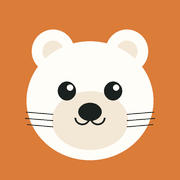
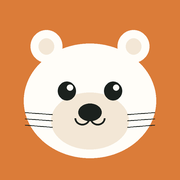
Cierra el acceso: sesion iniciada y lista blanca de correos
La app va a vivir en la web, donde la anon key viaja dentro del JavaScript
y cualquiera puede leerla. Las politicas pasan a exigir sesion, y ademas
que el correo este en una lista blanca guardada en configuracion: asi la
proteccion no depende de que el registro publico este desactivado en el
panel.

Las Edge Functions usan el service role por dentro, asi que RLS no las
frena; se les agrega una guardia que rechaza a quien llega solo con la
anon key.

En el cliente, sesion de Supabase Auth guardada en el dispositivo, con
refresco automatico y tolerancia a la falta de red: sin senal se sigue
usando el token que habia en vez de cerrar la sesion.

Tambien: el boton flotante ya respeta [hidden] y la nutria tiene orejas
mas pequenas, que parecia un oso.

Claude-Session: https://claude.ai/code/session_01DqTctDQLw3MT4SggFkwgfm

diff --git a/js/app.js b/js/app.js
@@ -350,6 +350,31 @@ function vTareas() {
   </div>`;
 }
 
+function vEntrar(error = '') {
+  return `
+  <div class="portada deslizar-entrada">
+    <div class="marca-portada">${nutria(76, 'currentColor')}</div>
+    <h1>La Nutria App</h1>
+    <p>Los gastos, la lista de compras y las tareas de la casa, en un solo lugar.</p>
+    <form data-form="entrar">
+      <input class="entrada" name="email" type="email" inputmode="email"
+             autocomplete="username" placeholder="Correo de la casa" required>
+      <input class="entrada" name="password" type="password"
+             autocomplete="current-password" placeholder="Contraseña" required>
+      <button class="btn acento" type="submit">Entrar</button>
+      ${error ? `<div class="aviso malo" style="margin:12px 0 0">${escapar(error)}</div>` : ''}
+    </form>
+    <small>Una sola cuenta para los dos. Se queda guardada en este teléfono.</small>
+  </div>`;
+}
+
+function pintarEntrar(error = '') {
+  $('#cabecera').innerHTML = '';
+  $('#tabbar').innerHTML = '';
+  $('#flotante').hidden = true;
+  $('#vista').innerHTML = vEntrar(error);
+}
+
 // --------------------------------------------------------------------- hojas
 
 function abrirHoja(html) {
@@ -377,7 +402,8 @@ function hojaUsuario() {
             <div class="fila-sub">Le toca el ${plata(u.porcentaje_default)}% de los gastos</div>
           </div>
         </button>`).join('')}
-    </div>`);
+    </div>
+    <button class="btn fantasma" data-accion="salir" style="margin-top:14px">Cerrar sesión</button>`);
 }
 
 function hojaGasto(prefill = {}) {
@@ -556,6 +582,13 @@ document.addEventListener('click', async (ev) => {
   if (accion === 'ir') { vibrar(); estado.vista = vista; pintar(); }
 
   if (accion === 'cerrar-hoja') cerrarHoja();
+
+  if (accion === 'salir') {
+    api.salir();
+    localStorage.removeItem('nutria_usuario');
+    cerrarHoja();
+    pintarEntrar();
+  }
   if (accion === 'cambiar-usuario') hojaUsuario();
 
   if (accion === 'elegir-usuario') {
@@ -663,6 +696,19 @@ document.addEventListener('submit', async (ev) => {
   const form = ev.target;
   ev.preventDefault();
 
+  if (form.dataset.form === 'entrar') {
+    const btn = form.querySelector('[type="submit"]');
+    btn.disabled = true;
+    btn.textContent = 'Entrando…';
+    try {
+      await api.entrar(form.email.value, form.password.value);
+      await arrancar();
+    } catch (e) {
+      pintarEntrar(e.message);
+    }
+    return;
+  }
+
   if (form.dataset.form === 'item') {
     const nombre = form.nombre.value.trim();
     if (!nombre) return;
@@ -736,14 +782,29 @@ setInterval(() => vaciarCola(false), REINTENTO_MS);
 // --------------------------------------------------------------------- arranque
 
 async function arrancar() {
+  if (!api.haySesion()) { pintarEntrar(); return; }
+
   try {
     [estado.usuarios, estado.categorias] = await Promise.all([
       api.traerUsuarios(), api.traerCategorias(),
     ]);
-  } catch {
+  } catch (e) {
+    // Un 401 es sesión vencida; cualquier otra cosa, falta de red
+    if (String(e.message).startsWith('401')) {
+      api.salir();
+      pintarEntrar('Tu sesión venció. Entra otra vez.');
+      return;
+    }
     $('#vista').innerHTML = `<div class="vacio">${nutriaDormida(72)}
       <strong>Sin conexión</strong>
       <p>Abre la app con señal la primera vez para descargar los datos.</p></div>`;
+    return;
+  }
+
+  // Sin usuarios visibles la sesión no sirve de nada: las políticas la rechazan
+  if (!estado.usuarios.length) {
+    api.salir();
+    pintarEntrar('Esa cuenta no tiene acceso. Revisa el correo y la contraseña.');
     return;
   }
 

diff --git a/js/api.js b/js/api.js
@@ -1,10 +1,72 @@
 // Cliente REST a mano. Es poco código y evita depender de un CDN, que en una
 // app offline-first sería justo lo que falla cuando más la necesitas.
+//
+// Desde que la app vive en la web, la anon key ya no abre nada: las políticas
+// exigen una sesión iniciada. La anon key solo sirve como llave de la puerta
+// de entrada (el endpoint de auth).
 import { URL_SUPA, ANON } from './config.js';
 
-const cabeceras = (extra = {}) => ({
+const CLAVE_SESION = 'nutria_sesion';
+let sesion = null;
+try { sesion = JSON.parse(localStorage.getItem(CLAVE_SESION) || 'null'); } catch { /* nada */ }
+
+export const haySesion = () => !!sesion?.refresh_token;
+
+function guardar(j) {
+  sesion = {
+    access_token: j.access_token,
+    refresh_token: j.refresh_token,
+    // expires_at viene en segundos; si falta, se asume una hora
+    expira: j.expires_at || Math.floor(Date.now() / 1000) + (j.expires_in || 3600),
+  };
+  localStorage.setItem(CLAVE_SESION, JSON.stringify(sesion));
+}
+
+export async function entrar(email, password) {
+  const r = await fetch(`${URL_SUPA}/auth/v1/token?grant_type=password`, {
+    method: 'POST',
+    headers: { apikey: ANON, 'Content-Type': 'application/json' },
+    body: JSON.stringify({ email: email.trim(), password }),
+  });
+  const j = await r.json();
+  if (!j.access_token) {
+    throw new Error(j.error_description || j.msg || j.message || 'Correo o contraseña incorrectos');
+  }
+  guardar(j);
+}
+
+export function salir() {
+  sesion = null;
+  localStorage.removeItem(CLAVE_SESION);
+}
+
+async function refrescar() {
+  const r = await fetch(`${URL_SUPA}/auth/v1/token?grant_type=refresh_token`, {
+    method: 'POST',
+    headers: { apikey: ANON, 'Content-Type': 'application/json' },
+    body: JSON.stringify({ refresh_token: sesion.refresh_token }),
+  });
+  const j = await r.json();
+  if (!j.access_token) throw new Error('sesión vencida');
+  guardar(j);
+}
+
+/**
+ * Devuelve un token válido. Si el refresco falla por falta de red, se entrega
+ * el que había: sin señal da igual que esté vencido, y evita cerrar la sesión
+ * de alguien que solo está en el ascensor.
+ */
+async function token() {
+  if (!sesion) return ANON;
+  if (Math.floor(Date.now() / 1000) > sesion.expira - 60) {
+    try { await refrescar(); } catch { /* se sigue con el viejo */ }
+  }
+  return sesion.access_token;
+}
+
+const cabeceras = async (extra = {}) => ({
   apikey: ANON,
-  Authorization: `Bearer ${ANON}`,
+  Authorization: `Bearer ${await token()}`,
   'Content-Type': 'application/json',
   ...extra,
 });
@@ -12,7 +74,7 @@ const cabeceras = (extra = {}) => ({
 export async function rest(ruta, opciones = {}) {
   const r = await fetch(`${URL_SUPA}/rest/v1/${ruta}`, {
     ...opciones,
-    headers: cabeceras(opciones.headers),
+    headers: await cabeceras(opciones.headers),
   });
   if (!r.ok) throw new Error(`${r.status}: ${(await r.text()).slice(0, 180)}`);
   return r.status === 204 ? null : r.json();
@@ -21,7 +83,7 @@ export async function rest(ruta, opciones = {}) {
 export async function fn(nombre, cuerpo) {
   const r = await fetch(`${URL_SUPA}/functions/v1/${nombre}`, {
     method: 'POST',
-    headers: cabeceras(),
+    headers: await cabeceras(),
     body: JSON.stringify(cuerpo ?? {}),
   });
   const j = await r.json().catch(() => ({}));

diff --git a/js/iconos.js b/js/iconos.js
@@ -37,9 +37,9 @@ export const iconos = {
 export function nutria(tam = 40, color = 'currentColor') {
   return `<svg viewBox="0 0 64 64" width="${tam}" height="${tam}" aria-hidden="true" fill="none">
     <g fill="${color}">
-      <ellipse cx="19.5" cy="15.5" rx="7.4" ry="7.6"/>
-      <ellipse cx="44.5" cy="15.5" rx="7.4" ry="7.6"/>
-      <ellipse cx="32" cy="34" rx="22.5" ry="21"/>
+      <ellipse cx="16.5" cy="16.5" rx="5.6" ry="5.8"/>
+      <ellipse cx="47.5" cy="16.5" rx="5.6" ry="5.8"/>
+      <ellipse cx="32" cy="35" rx="23.5" ry="20"/>
     </g>
     <ellipse cx="32" cy="41.5" rx="13.2" ry="10.4" fill="#FFFDF8" opacity=".95"/>
     <circle cx="23.6" cy="30.5" r="3.05" fill="#1B211E"/>
@@ -59,9 +59,9 @@ export function nutria(tam = 40, color = 'currentColor') {
 export function nutriaDormida(tam = 64, color = 'currentColor') {
   return `<svg viewBox="0 0 64 64" width="${tam}" height="${tam}" aria-hidden="true" fill="none">
     <g fill="${color}" opacity=".5">
-      <ellipse cx="19.5" cy="17.5" rx="7" ry="7.2"/>
-      <ellipse cx="44.5" cy="17.5" rx="7" ry="7.2"/>
-      <ellipse cx="32" cy="35" rx="22" ry="20.5"/>
+      <ellipse cx="16.5" cy="18.5" rx="5.4" ry="5.6"/>
+      <ellipse cx="47.5" cy="18.5" rx="5.4" ry="5.6"/>
+      <ellipse cx="32" cy="36" rx="23" ry="19.5"/>
     </g>
     <ellipse cx="32" cy="42" rx="12.8" ry="10" fill="var(--card)" opacity=".9"/>
     <path d="M20.4 31.5c1.1-1.4 4.3-1.4 5.4 0M38.2 31.5c1.1-1.4 4.3-1.4 5.4 0"

diff --git a/app.css b/app.css
@@ -293,6 +293,9 @@ button { cursor: pointer; }
   transition: transform .14s ease;
 }
 .flotante:active { transform: scale(.9); }
+/* .flotante define display:grid y con la misma especificidad le ganaba a
+   [hidden] del navegador, asi que hay que decirlo explicitamente */
+.flotante[hidden] { display: none; }
 
 /* ---------- Hoja modal ---------- */
 
@@ -446,4 +449,28 @@ textarea.entrada { resize: none; min-height: 62px; }
 
 @media (prefers-reduced-motion: reduce) {
   *, *::before, *::after { animation-duration: .01ms !important; transition-duration: .01ms !important; }
+}
+
+/* ---------- Pantalla de entrada ---------- */
+
+.portada {
+  min-height: 82dvh;
+  display: grid; align-content: center; justify-items: center;
+  gap: 5px; text-align: center;
+  padding: 20px 4px;
+}
+.marca-portada { color: var(--acento); margin-bottom: 6px; }
+.portada h1 {
+  font-size: 30px; font-weight: 800; letter-spacing: -.03em;
+  margin: 0;
+}
+.portada > p {
+  color: var(--ink-3); font-size: 14.5px;
+  margin: 0 0 22px; max-width: 30ch;
+}
+.portada form { width: 100%; max-width: 340px; display: grid; gap: 10px; }
+.portada form .btn { margin-top: 4px; }
+.portada > small {
+  color: var(--ink-3); font-size: 12.5px;
+  margin-top: 20px; max-width: 30ch;
 }

diff --git a/supabase/functions/sheet-sync/index.ts b/supabase/functions/sheet-sync/index.ts
@@ -10,9 +10,29 @@ const cors = {
 const json = (b: unknown, s = 200) =>
   new Response(JSON.stringify(b), { status: s, headers: { ...cors, 'Content-Type': 'application/json' } });
 
+/**
+ * Rechaza a quien llega solo con la anon key. Por dentro estas funciones usan
+ * el service role, asi que RLS no las frena: el filtro tiene que estar aqui.
+ * El JWT ya lo verifico el gateway; aqui solo se lee que rol trae.
+ */
+function sinSesion(req: Request): string | null {
+  try {
+    const t = (req.headers.get('Authorization') || '').replace(/^Bearer\s+/i, '');
+    const cuerpo = t.split('.')[1].replace(/-/g, '+').replace(/_/g, '/');
+    const relleno = cuerpo + '='.repeat((4 - cuerpo.length % 4) % 4);
+    const rol = JSON.parse(atob(relleno)).role;
+    return rol === 'anon' ? 'Necesitas iniciar sesion.' : null;
+  } catch {
+    return 'Falta la sesion.';
+  }
+}
+
 Deno.serve(async (req) => {
   if (req.method === 'OPTIONS') return new Response('ok', { headers: cors });
   try {
+    const veto = sinSesion(req);
+    if (veto) return json({ error: veto }, 401);
+
     const supa = createClient(
       Deno.env.get('SUPABASE_URL')!,
       Deno.env.get('SUPABASE_SERVICE_ROLE_KEY')!,

diff --git a/supabase/functions/boleta-leer/index.ts b/supabase/functions/boleta-leer/index.ts
@@ -71,9 +71,29 @@ function bytesDesdeBase64(b64: string): string {
   return b64.includes(',') ? b64.split(',')[1] : b64;
 }
 
+/**
+ * Rechaza a quien llega solo con la anon key. Por dentro estas funciones usan
+ * el service role, asi que RLS no las frena: el filtro tiene que estar aqui.
+ * El JWT ya lo verifico el gateway; aqui solo se lee que rol trae.
+ */
+function sinSesion(req: Request): string | null {
+  try {
+    const t = (req.headers.get('Authorization') || '').replace(/^Bearer\s+/i, '');
+    const cuerpo = t.split('.')[1].replace(/-/g, '+').replace(/_/g, '/');
+    const relleno = cuerpo + '='.repeat((4 - cuerpo.length % 4) % 4);
+    const rol = JSON.parse(atob(relleno)).role;
+    return rol === 'anon' ? 'Necesitas iniciar sesion.' : null;
+  } catch {
+    return 'Falta la sesion.';
+  }
+}
+
 Deno.serve(async (req) => {
   if (req.method === 'OPTIONS') return new Response('ok', { headers: cors });
   try {
+    const veto = sinSesion(req);
+    if (veto) return json({ error: veto }, 401);
+
     const claves = obtenerClaves();
     if (!claves.length) return json({ error: 'No hay ninguna GEMINI_API_KEY cargada.' }, 400);
 

diff --git a/supabase/functions/gasto-guardar/index.ts b/supabase/functions/gasto-guardar/index.ts
@@ -25,9 +25,29 @@ const extFromMime = (m: string) =>
   : m.includes('pdf') ? 'pdf'
   : 'jpg';
 
+/**
+ * Rechaza a quien llega solo con la anon key. Por dentro estas funciones usan
+ * el service role, asi que RLS no las frena: el filtro tiene que estar aqui.
+ * El JWT ya lo verifico el gateway; aqui solo se lee que rol trae.
+ */
+function sinSesion(req: Request): string | null {
+  try {
+    const t = (req.headers.get('Authorization') || '').replace(/^Bearer\s+/i, '');
+    const cuerpo = t.split('.')[1].replace(/-/g, '+').replace(/_/g, '/');
+    const relleno = cuerpo + '='.repeat((4 - cuerpo.length % 4) % 4);
+    const rol = JSON.parse(atob(relleno)).role;
+    return rol === 'anon' ? 'Necesitas iniciar sesion.' : null;
+  } catch {
+    return 'Falta la sesion.';
+  }
+}
+
 Deno.serve(async (req) => {
   if (req.method === 'OPTIONS') return new Response('ok', { headers: cors });
   try {
+    const veto = sinSesion(req);
+    if (veto) return json({ error: veto }, 401);
+
     const supa = createClient(
       Deno.env.get('SUPABASE_URL')!,
       Deno.env.get('SUPABASE_SERVICE_ROLE_KEY')!,

diff --git a/supabase/functions/gasto-a-drive/index.ts b/supabase/functions/gasto-a-drive/index.ts
@@ -17,8 +17,28 @@ const extFromMime = (m: string) =>
   : m.includes('pdf') ? 'pdf'
   : 'jpg';
 
+/**
+ * Rechaza a quien llega solo con la anon key. Por dentro estas funciones usan
+ * el service role, asi que RLS no las frena: el filtro tiene que estar aqui.
+ * El JWT ya lo verifico el gateway; aqui solo se lee que rol trae.
+ */
+function sinSesion(req: Request): string | null {
+  try {
+    const t = (req.headers.get('Authorization') || '').replace(/^Bearer\s+/i, '');
+    const cuerpo = t.split('.')[1].replace(/-/g, '+').replace(/_/g, '/');
+    const relleno = cuerpo + '='.repeat((4 - cuerpo.length % 4) % 4);
+    const rol = JSON.parse(atob(relleno)).role;
+    return rol === 'anon' ? 'Necesitas iniciar sesion.' : null;
+  } catch {
+    return 'Falta la sesion.';
+  }
+}
+
 Deno.serve(async (req) => {
   if (req.method === 'OPTIONS') return new Response('ok', { headers: cors });
+
+  const veto = sinSesion(req);
+  if (veto) return json({ error: veto }, 401);
 
   const supa = createClient(
     Deno.env.get('SUPABASE_URL')!,
